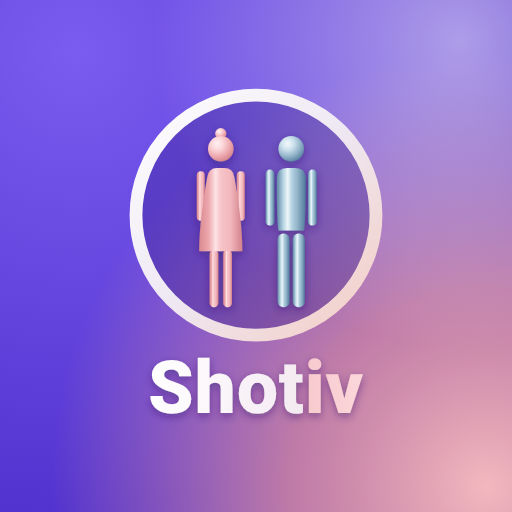
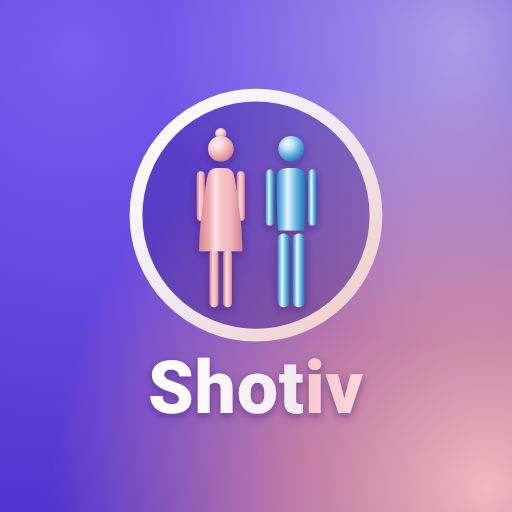
Men's theme: livelier, more saturated blue pearl (v26)
Product owner asked for a more alive color. Hero card, buttons,
wordmark, gain warning, splash figure and app icon now use a vivid
pearl blue (#EAF7FE highlights to #1F6FAE) instead of the grayish
blue, keeping dark navy text for contrast.

Claude-Session: https://claude.ai/code/session_01APeqoeDRZRvZG1wpRJWPM8

Changed region(s): [[0.5, 0.25, 0.625, 0.5938]]

diff --git a/index.html b/index.html
@@ -14,7 +14,7 @@
   <link rel="apple-touch-icon" href="icons/apple-touch-icon.png">
   <link rel="preconnect" href="https://fonts.googleapis.com">
   <link href="https://fonts.googleapis.com/css2?family=Heebo:wght@100..900&display=swap" rel="stylesheet">
-  <link rel="stylesheet" href="style.css?v=25">
+  <link rel="stylesheet" href="style.css?v=26">
 </head>
 <body>
   <!-- מסך פתיחה מונפש -->
@@ -24,7 +24,7 @@
           <circle class="splash-ring" cx="150" cy="150" r="138" fill="none" stroke="#FFFFFF" stroke-width="9" stroke-linecap="round" transform="rotate(-90 150 150)"/>
         </svg>
         <div class="fig3d woman"><svg class="fig-svg" viewBox="0 -6 100 240" width="87" height="209"><defs><linearGradient id="w3-body" x1="0" y1="0" x2="1" y2="0"><stop offset="0" stop-color="#D98990"/><stop offset=".22" stop-color="#EDA8AE"/><stop offset=".38" stop-color="#FDE3E7"/><stop offset=".5" stop-color="#F7C4C8"/><stop offset=".72" stop-color="#F2B8BE"/><stop offset="1" stop-color="#D3818A"/></linearGradient><radialGradient id="w3-head" cx=".36" cy=".3" r=".78"><stop offset="0" stop-color="#FFF0F2"/><stop offset=".3" stop-color="#FBD7DA"/><stop offset=".65" stop-color="#EDA8AE"/><stop offset="1" stop-color="#CF7C86"/></radialGradient><filter id="w3-blur" x="-20%" y="-200%" width="140%" height="500%"><feGaussianBlur stdDeviation="2.4"/></filter></defs><ellipse cx="50" cy="225" rx="42" ry="5" fill="rgba(20,8,70,.38)" filter="url(#w3-blur)"><animate attributeName="rx" values="42;30" calcMode="spline" keyTimes="0;1" keySplines=".65 0 .35 1" begin="0.45s" dur="1.25s" fill="freeze"/></ellipse><rect x="30.0" y="150" width="15" height="72" rx="5.5" fill="url(#w3-body)"><animate attributeName="x" values="30.0;36.0" calcMode="spline" keyTimes="0;1" keySplines=".65 0 .35 1" begin="0.45s" dur="1.25s" fill="freeze"/><animate attributeName="width" values="15;11" calcMode="spline" keyTimes="0;1" keySplines=".65 0 .35 1" begin="0.45s" dur="1.25s" fill="freeze"/></rect><rect x="55.0" y="150" width="15" height="72" rx="5.5" fill="url(#w3-body)"><animate attributeName="x" values="55.0;53.0" calcMode="spline" keyTimes="0;1" keySplines=".65 0 .35 1" begin="0.45s" dur="1.25s" fill="freeze"/><animate attributeName="width" values="15;11" calcMode="spline" keyTimes="0;1" keySplines=".65 0 .35 1" begin="0.45s" dur="1.25s" fill="freeze"/></rect><rect x="5.0" y="52" width="10" height="62" rx="5.0" fill="url(#w3-body)"><animate attributeName="x" values="5.0;20.0" calcMode="spline" keyTimes="0;1" keySplines=".65 0 .35 1" begin="0.45s" dur="1.25s" fill="freeze"/><animate attributeName="width" values="10;10" calcMode="spline" keyTimes="0;1" keySplines=".65 0 .35 1" begin="0.45s" dur="1.25s" fill="freeze"/></rect><rect x="85.0" y="52" width="10" height="62" rx="5.0" fill="url(#w3-body)"><animate attributeName="x" values="85.0;70.0" calcMode="spline" keyTimes="0;1" keySplines=".65 0 .35 1" begin="0.45s" dur="1.25s" fill="freeze"/><animate attributeName="width" values="10;10" calcMode="spline" keyTimes="0;1" keySplines=".65 0 .35 1" begin="0.45s" dur="1.25s" fill="freeze"/></rect><path d="M39.0 48 H61.0 Q73.0 48 74.0 60 C85.0 88 88.0 122 88.0 152 H12.0 C12.0 122 15.0 88 26.0 60 Q27.0 48 39.0 48 Z" fill="url(#w3-body)"><animate attributeName="d" values="M39.0 48 H61.0 Q73.0 48 74.0 60 C85.0 88 88.0 122 88.0 152 H12.0 C12.0 122 15.0 88 26.0 60 Q27.0 48 39.0 48 Z;M46.0 48 H54.0 Q66.0 48 67.0 60 C72.0 88 77.0 122 77.0 152 H23.0 C23.0 122 28.0 88 33.0 60 Q34.0 48 46.0 48 Z" calcMode="spline" keyTimes="0;1" keySplines=".65 0 .35 1" begin="0.45s" dur="1.25s" fill="freeze"/></path><circle cx="50" cy="5" r="7" fill="url(#w3-head)"/><circle cx="50" cy="24" r="16" fill="url(#w3-head)"/></svg></div>
-        <div class="fig3d man"><svg class="fig-svg" viewBox="0 -6 100 240" width="87" height="209"><defs><linearGradient id="m3-body" x1="0" y1="0" x2="1" y2="0"><stop offset="0" stop-color="#5E86A3"/><stop offset=".22" stop-color="#B4D3E1"/><stop offset=".38" stop-color="#EEF6FA"/><stop offset=".52" stop-color="#B4D3E1"/><stop offset=".72" stop-color="#92B3C8"/><stop offset="1" stop-color="#4E799B"/></linearGradient><radialGradient id="m3-head" cx=".36" cy=".3" r=".78"><stop offset="0" stop-color="#F4F9FC"/><stop offset=".3" stop-color="#CFE3EE"/><stop offset=".65" stop-color="#92B3C8"/><stop offset="1" stop-color="#4E799B"/></radialGradient><filter id="m3-blur" x="-20%" y="-200%" width="140%" height="500%"><feGaussianBlur stdDeviation="2.4"/></filter></defs><ellipse cx="50" cy="225" rx="40" ry="5" fill="rgba(20,8,70,.38)" filter="url(#m3-blur)"><animate attributeName="rx" values="40;27" calcMode="spline" keyTimes="0;1" keySplines=".65 0 .35 1" begin="0.45s" dur="1.25s" fill="freeze"/></ellipse><rect x="27.0" y="130" width="19" height="92" rx="7.5" fill="url(#m3-body)"><animate attributeName="x" values="27.0;33.0" calcMode="spline" keyTimes="0;1" keySplines=".65 0 .35 1" begin="0.45s" dur="1.25s" fill="freeze"/><animate attributeName="width" values="19;15" calcMode="spline" keyTimes="0;1" keySplines=".65 0 .35 1" begin="0.45s" dur="1.25s" fill="freeze"/></rect><rect x="54.0" y="130" width="19" height="92" rx="7.5" fill="url(#m3-body)"><animate attributeName="x" values="54.0;52.0" calcMode="spline" keyTimes="0;1" keySplines=".65 0 .35 1" begin="0.45s" dur="1.25s" fill="freeze"/><animate attributeName="width" values="19;15" calcMode="spline" keyTimes="0;1" keySplines=".65 0 .35 1" begin="0.45s" dur="1.25s" fill="freeze"/></rect><rect x="1.0" y="50" width="11" height="70" rx="5.5" fill="url(#m3-body)"><animate attributeName="x" values="1.0;18.0" calcMode="spline" keyTimes="0;1" keySplines=".65 0 .35 1" begin="0.45s" dur="1.25s" fill="freeze"/><animate attributeName="width" values="11;11" calcMode="spline" keyTimes="0;1" keySplines=".65 0 .35 1" begin="0.45s" dur="1.25s" fill="freeze"/></rect><rect x="88.0" y="50" width="11" height="70" rx="5.5" fill="url(#m3-body)"><animate attributeName="x" values="88.0;71.0" calcMode="spline" keyTimes="0;1" keySplines=".65 0 .35 1" begin="0.45s" dur="1.25s" fill="freeze"/><animate attributeName="width" values="11;11" calcMode="spline" keyTimes="0;1" keySplines=".65 0 .35 1" begin="0.45s" dur="1.25s" fill="freeze"/></rect><path d="M35.0 48 H65.0 Q78.0 48 78.0 61 C85.0 78 85.0 112 76.0 126 H24.0 C15.0 112 15.0 78 22.0 61 Q22.0 48 35.0 48 Z" fill="url(#m3-body)"><animate attributeName="d" values="M35.0 48 H65.0 Q78.0 48 78.0 61 C85.0 78 85.0 112 76.0 126 H24.0 C15.0 112 15.0 78 22.0 61 Q22.0 48 35.0 48 Z;M45.0 48 H55.0 Q68.0 48 68.0 61 C68.0 78 68.0 112 66.0 126 H34.0 C32.0 112 32.0 78 32.0 61 Q32.0 48 45.0 48 Z" calcMode="spline" keyTimes="0;1" keySplines=".65 0 .35 1" begin="0.45s" dur="1.25s" fill="freeze"/></path><circle cx="50" cy="24" r="16" fill="url(#m3-head)"/></svg></div>
+        <div class="fig3d man"><svg class="fig-svg" viewBox="0 -6 100 240" width="87" height="209"><defs><linearGradient id="m3-body" x1="0" y1="0" x2="1" y2="0"><stop offset="0" stop-color="#2F86C4"/><stop offset=".22" stop-color="#8FCBEE"/><stop offset=".38" stop-color="#EAF7FE"/><stop offset=".52" stop-color="#A9D8F0"/><stop offset=".72" stop-color="#5AA9DC"/><stop offset="1" stop-color="#1F6FAE"/></linearGradient><radialGradient id="m3-head" cx=".36" cy=".3" r=".78"><stop offset="0" stop-color="#F2FAFF"/><stop offset=".3" stop-color="#BFE3F6"/><stop offset=".65" stop-color="#5AA9DC"/><stop offset="1" stop-color="#1F6FAE"/></radialGradient><filter id="m3-blur" x="-20%" y="-200%" width="140%" height="500%"><feGaussianBlur stdDeviation="2.4"/></filter></defs><ellipse cx="50" cy="225" rx="40" ry="5" fill="rgba(20,8,70,.38)" filter="url(#m3-blur)"><animate attributeName="rx" values="40;27" calcMode="spline" keyTimes="0;1" keySplines=".65 0 .35 1" begin="0.45s" dur="1.25s" fill="freeze"/></ellipse><rect x="27.0" y="130" width="19" height="92" rx="7.5" fill="url(#m3-body)"><animate attributeName="x" values="27.0;33.0" calcMode="spline" keyTimes="0;1" keySplines=".65 0 .35 1" begin="0.45s" dur="1.25s" fill="freeze"/><animate attributeName="width" values="19;15" calcMode="spline" keyTimes="0;1" keySplines=".65 0 .35 1" begin="0.45s" dur="1.25s" fill="freeze"/></rect><rect x="54.0" y="130" width="19" height="92" rx="7.5" fill="url(#m3-body)"><animate attributeName="x" values="54.0;52.0" calcMode="spline" keyTimes="0;1" keySplines=".65 0 .35 1" begin="0.45s" dur="1.25s" fill="freeze"/><animate attributeName="width" values="19;15" calcMode="spline" keyTimes="0;1" keySplines=".65 0 .35 1" begin="0.45s" dur="1.25s" fill="freeze"/></rect><rect x="1.0" y="50" width="11" height="70" rx="5.5" fill="url(#m3-body)"><animate attributeName="x" values="1.0;18.0" calcMode="spline" keyTimes="0;1" keySplines=".65 0 .35 1" begin="0.45s" dur="1.25s" fill="freeze"/><animate attributeName="width" values="11;11" calcMode="spline" keyTimes="0;1" keySplines=".65 0 .35 1" begin="0.45s" dur="1.25s" fill="freeze"/></rect><rect x="88.0" y="50" width="11" height="70" rx="5.5" fill="url(#m3-body)"><animate attributeName="x" values="88.0;71.0" calcMode="spline" keyTimes="0;1" keySplines=".65 0 .35 1" begin="0.45s" dur="1.25s" fill="freeze"/><animate attributeName="width" values="11;11" calcMode="spline" keyTimes="0;1" keySplines=".65 0 .35 1" begin="0.45s" dur="1.25s" fill="freeze"/></rect><path d="M35.0 48 H65.0 Q78.0 48 78.0 61 C85.0 78 85.0 112 76.0 126 H24.0 C15.0 112 15.0 78 22.0 61 Q22.0 48 35.0 48 Z" fill="url(#m3-body)"><animate attributeName="d" values="M35.0 48 H65.0 Q78.0 48 78.0 61 C85.0 78 85.0 112 76.0 126 H24.0 C15.0 112 15.0 78 22.0 61 Q22.0 48 35.0 48 Z;M45.0 48 H55.0 Q68.0 48 68.0 61 C68.0 78 68.0 112 66.0 126 H34.0 C32.0 112 32.0 78 32.0 61 Q32.0 48 45.0 48 Z" calcMode="spline" keyTimes="0;1" keySplines=".65 0 .35 1" begin="0.45s" dur="1.25s" fill="freeze"/></path><circle cx="50" cy="24" r="16" fill="url(#m3-head)"/></svg></div>
       </div>
     <div class="splash-brand">
       <span class="splash-word">Shot<span class="wm-b">iv</span></span>
@@ -334,6 +334,6 @@
     </form>
   </template>
 
-  <script src="app.js?v=25"></script>
+  <script src="app.js?v=26"></script>
 </body>
 </html>

diff --git a/style.css b/style.css
@@ -439,8 +439,8 @@ html.text-large #app { zoom: 1.15; }
 /* אזהרה בצבע לפי מגדר */
 .feedback.up.g-female { background: linear-gradient(115deg, #FDE3E7, #F7C4C8 60%, #F2B8BE); color: #5E2531; border-color: #EDA8AE; }
 .feedback.up.g-female .feedback-icon { background: linear-gradient(135deg, #C46F7B, #A8525E); }
-.feedback.up.g-male { background: linear-gradient(115deg, #E6F1F7, #B4D3E1 60%, #92B3C8); color: #1D3550; border-color: #92B3C8; }
-.feedback.up.g-male .feedback-icon { background: linear-gradient(135deg, #6C97B3, #3B5D79); }
+.feedback.up.g-male { background: linear-gradient(115deg, #EAF7FE, #A9D8F0 60%, #7DC0E8); color: #0F2E4A; border-color: #7DC0E8; }
+.feedback.up.g-male .feedback-icon { background: linear-gradient(135deg, #4FA3DA, #1F6FAE); }
 
 /* ערכת צבעים לפי מגדר: אישה = זהב ורוד, גבר = פנינה */
 html.theme-female {
@@ -474,24 +474,24 @@ html.theme-female .feedback.up.g-female { background: linear-gradient(115deg, #F
 html.theme-female .feedback.up.g-female .feedback-icon { background: linear-gradient(135deg, #C46F7B, #A8525E); }
 
 html.theme-male {
-  --accent: #3B5D79;          /* כחול פנינה עמוק לטקסט וכפתורים (ניגודיות טובה) */
-  --accent-deep: #24405A;
-  --accent-soft: #E3EEF5;
-  --ground: #F6F9FB;
+  --accent: #1F6FAE;          /* כחול פנינה חי לטקסט וכפתורים (ניגודיות טובה) */
+  --accent-deep: #134A7A;
+  --accent-soft: #E1F1FB;
+  --ground: #F4F9FD;
 }
-html.theme-male .btn.primary { background: linear-gradient(135deg, #4E799B 0%, #3B5D79 55%, #2E4C66 100%); }
+html.theme-male .btn.primary { background: linear-gradient(135deg, #2F86C4 0%, #1F6FAE 55%, #155489 100%); }
 /* הכרטיס הראשי בכחול פנינה מבריק, לפי דוגמת הפנינים */
 html.theme-male .next-shot {
   background: linear-gradient(115deg,
-    #92B3C8 0%, #B4D3E1 16%, #E6F1F7 27%, #B4D3E1 38%,
-    #9DBDD0 52%, #DCEBF3 64%, #A9C8DA 78%, #82A1B5 100%);
-  color: #1D3550;
-  border: 1px solid #B9D2E0;
-  box-shadow: 0 12px 26px -16px rgba(59, 93, 121, .6);
+    #7DC0E8 0%, #A9D8F0 16%, #EAF7FE 27%, #A9D8F0 38%,
+    #86C6EC 52%, #D6EEFB 64%, #8FCBEE 78%, #5AA9DC 100%);
+  color: #0F2E4A;
+  border: 1px solid #9FD0EE;
+  box-shadow: 0 14px 28px -14px rgba(31, 111, 174, .65);
 }
-html.theme-male .next-shot .label-light { opacity: 1; color: #24405A; }
-html.theme-male .next-shot .btn.light { background: linear-gradient(135deg, #4E799B, #3B5D79); color: #FFFFFF; }
-html.theme-male .next-shot .last-shot { color: #1D3550; }
-html.theme-male .wordmark { color: #3B5D79; }
-html.theme-male .wordmark .wm-b { color: #6C97B3; }
+html.theme-male .next-shot .label-light { opacity: 1; color: #134A7A; }
+html.theme-male .next-shot .btn.light { background: linear-gradient(135deg, #2F86C4, #1F6FAE); color: #FFFFFF; }
+html.theme-male .next-shot .last-shot { color: #0F2E4A; }
+html.theme-male .wordmark { color: #1F6FAE; }
+html.theme-male .wordmark .wm-b { color: #4FA3DA; }
 .version { text-align: center; }

diff --git a/app.js b/app.js
@@ -1,7 +1,7 @@
 'use strict';
 
 // ---------- שמירת נתונים (על המכשיר בלבד) ----------
-const APP_VERSION = '25';
+const APP_VERSION = '26';
 const STORAGE_KEY = 'shotiv.v1';
 const DAY_MS = 24 * 60 * 60 * 1000;
 const DAY_NAMES = ['ראשון', 'שני', 'שלישי', 'רביעי', 'חמישי', 'שישי', 'שבת'];
@@ -362,7 +362,7 @@ function svgEl(tag, attrs) {
 function warnColor(data) {
   const g = data.profile.gender;
   if (g === 'female') return '#D9818B'; // זהב ורוד
-  if (g === 'male') return '#5D88A8';   // כחול פנינה
+  if (g === 'male') return '#2F86C4';   // כחול פנינה
   return '#E07A2E';
 }
 
@@ -731,7 +731,7 @@ function downloadCalendar(data) {
   toast('פתח את הקובץ כדי להוסיף ליומן');
 }
 
-const THEME_COLORS = { female: '#EDA8AE', male: '#82A1B5' };
+const THEME_COLORS = { female: '#EDA8AE', male: '#3F95CF' };
 function applyTheme(gender) {
   const root = document.documentElement;
   root.classList.toggle('theme-female', gender === 'female');

diff --git a/sw.js b/sw.js
@@ -1,11 +1,11 @@
 // Service Worker: שומר את קבצי האפליקציה כדי שתעבוד גם בלי אינטרנט.
 // בכל שינוי בקבצים מעלים את מספר הגרסה, כדי שהטלפון יוריד את החדשים.
-const CACHE = 'shotiv-v25';
+const CACHE = 'shotiv-v26';
 const FILES = [
   './',
   'index.html',
-  'style.css?v=25',
-  'app.js?v=25',
+  'style.css?v=26',
+  'app.js?v=26',
   'manifest.webmanifest',
   'icons/icon-192.png',
   'icons/icon-512.png',
